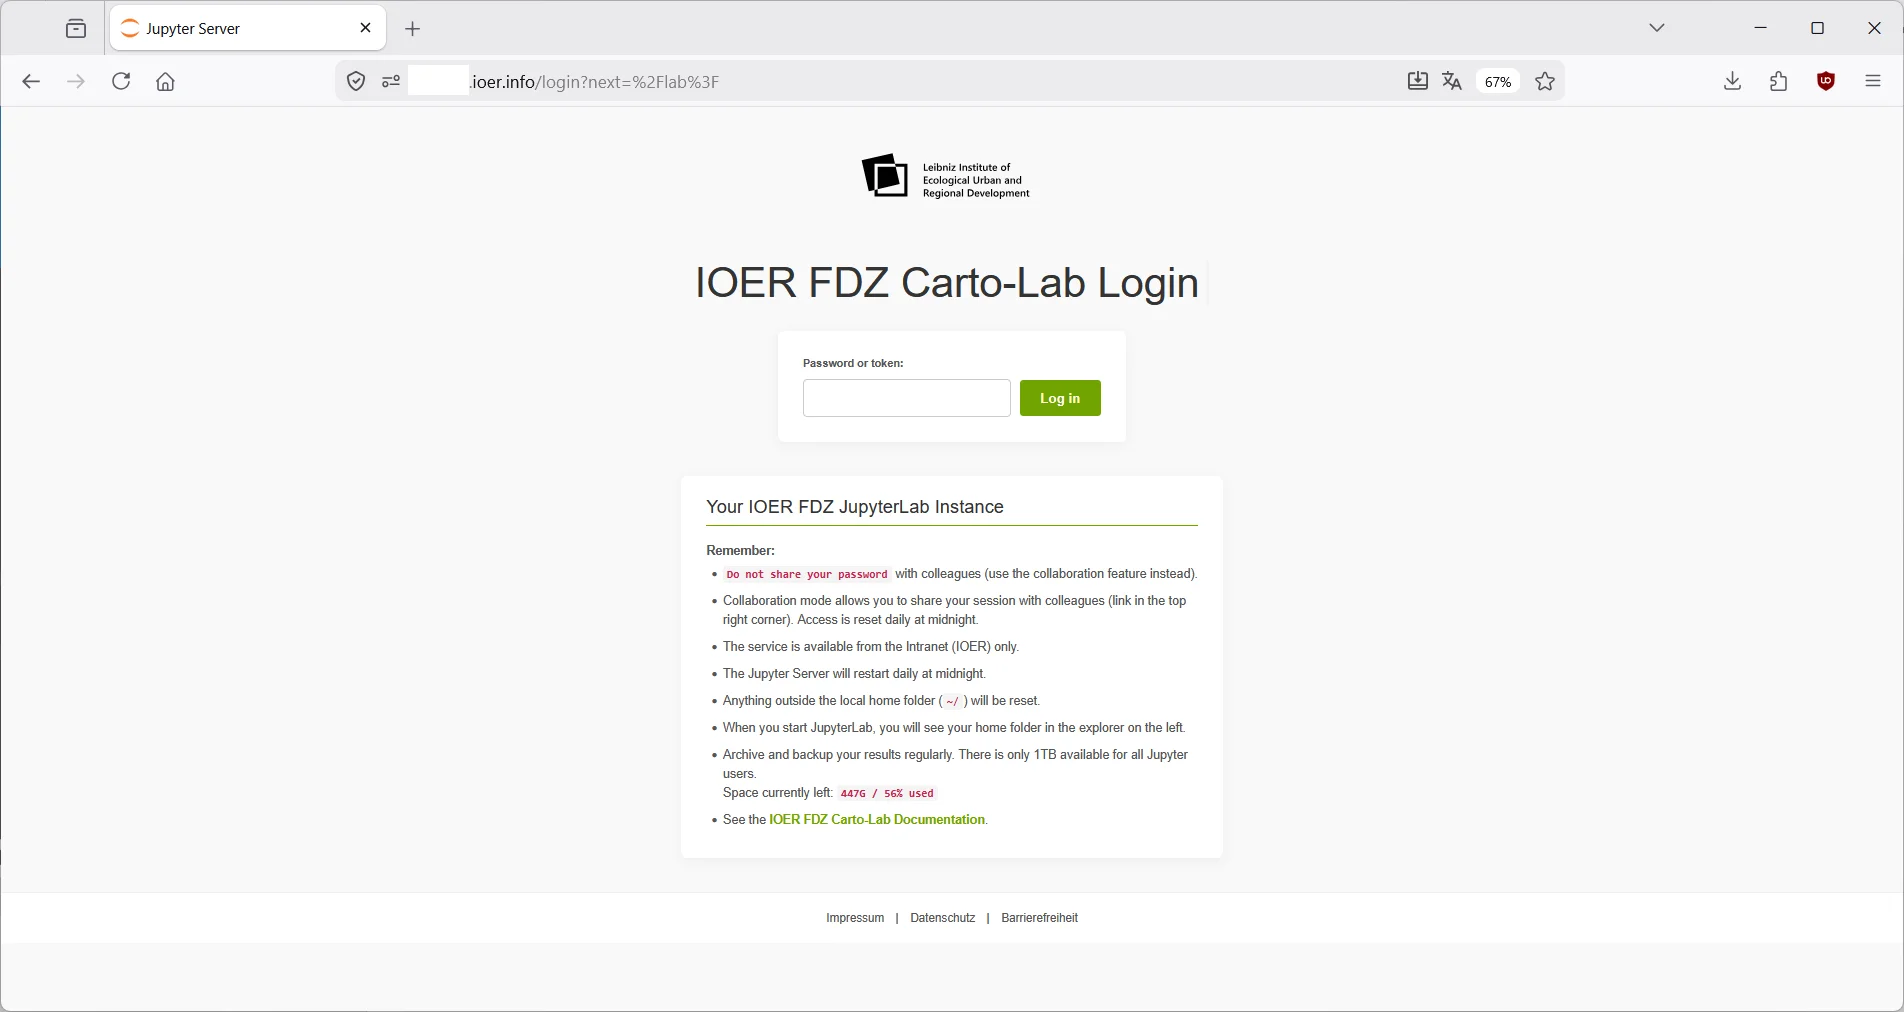
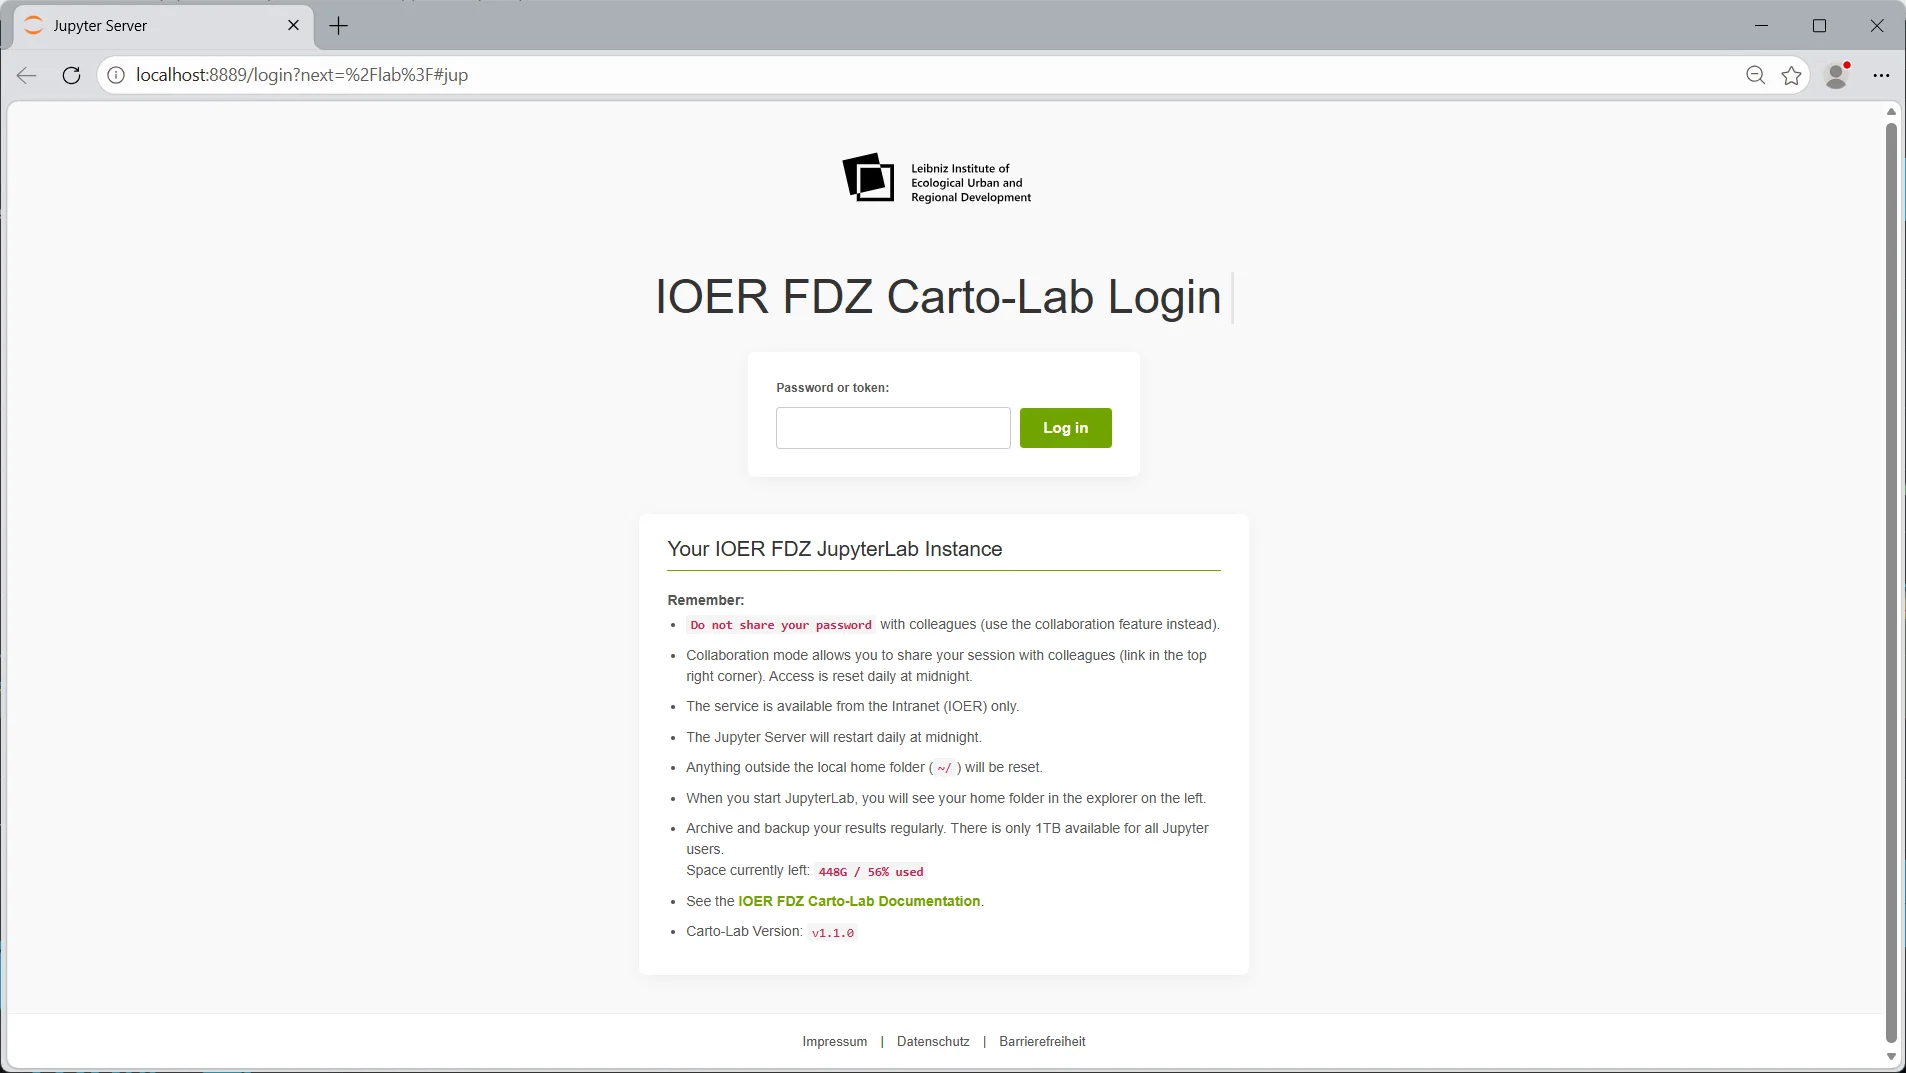
fix: use native JupyterLab templating for login.html override
fixes #4

diff --git a/docs/developers.md b/docs/developers.md
@@ -104,6 +104,7 @@ To push or pull from a private GitLab Container Registry, HTTP-based authenticat
 
    - Check **`write_registry`** (required for *pushing* the image).  
    - Check **`read_registry`** (required for *pulling* the image on target VMs).
+
 5. Click **Create deploy token** and copy the username and password immediately.
 
 Log in to the registry on your local build machine:
@@ -249,6 +250,8 @@ First, copy the `login.html` from the docker container to an external folder.
 docker cp lbsn-jupyterlab:/opt/conda/envs/jupyter_env/lib/python3.14/site-packages/jupyter_server/templates/login.html ~/
 ```
 
+..or use our template in `resources/login.html`.
+
 !!! note
     The full path may change based on the current Python version (`python3.14`).
 
@@ -288,10 +291,10 @@ Edit `login.html`. E.g. add some hints to the user logging in after the `<form>.
 Edit the `docker-compose.yml` to override the `login.html`:
 ```
 volumes:
-    - /path/to/login.html:/opt/conda/envs/jupyter_env/lib/python3.12/site-packages/jupyter_server/templates/login.html
+    - ./login.html:/etc/jupyter/templates/login.html:ro
 ```
 
-Replace `/path/to/login.html` with the local path to your updated `login.html`.
+Replace `./login.html` with the local path to your updated `login.html`.
 
 ![Example Login override](./images/login_override.webp)
 
